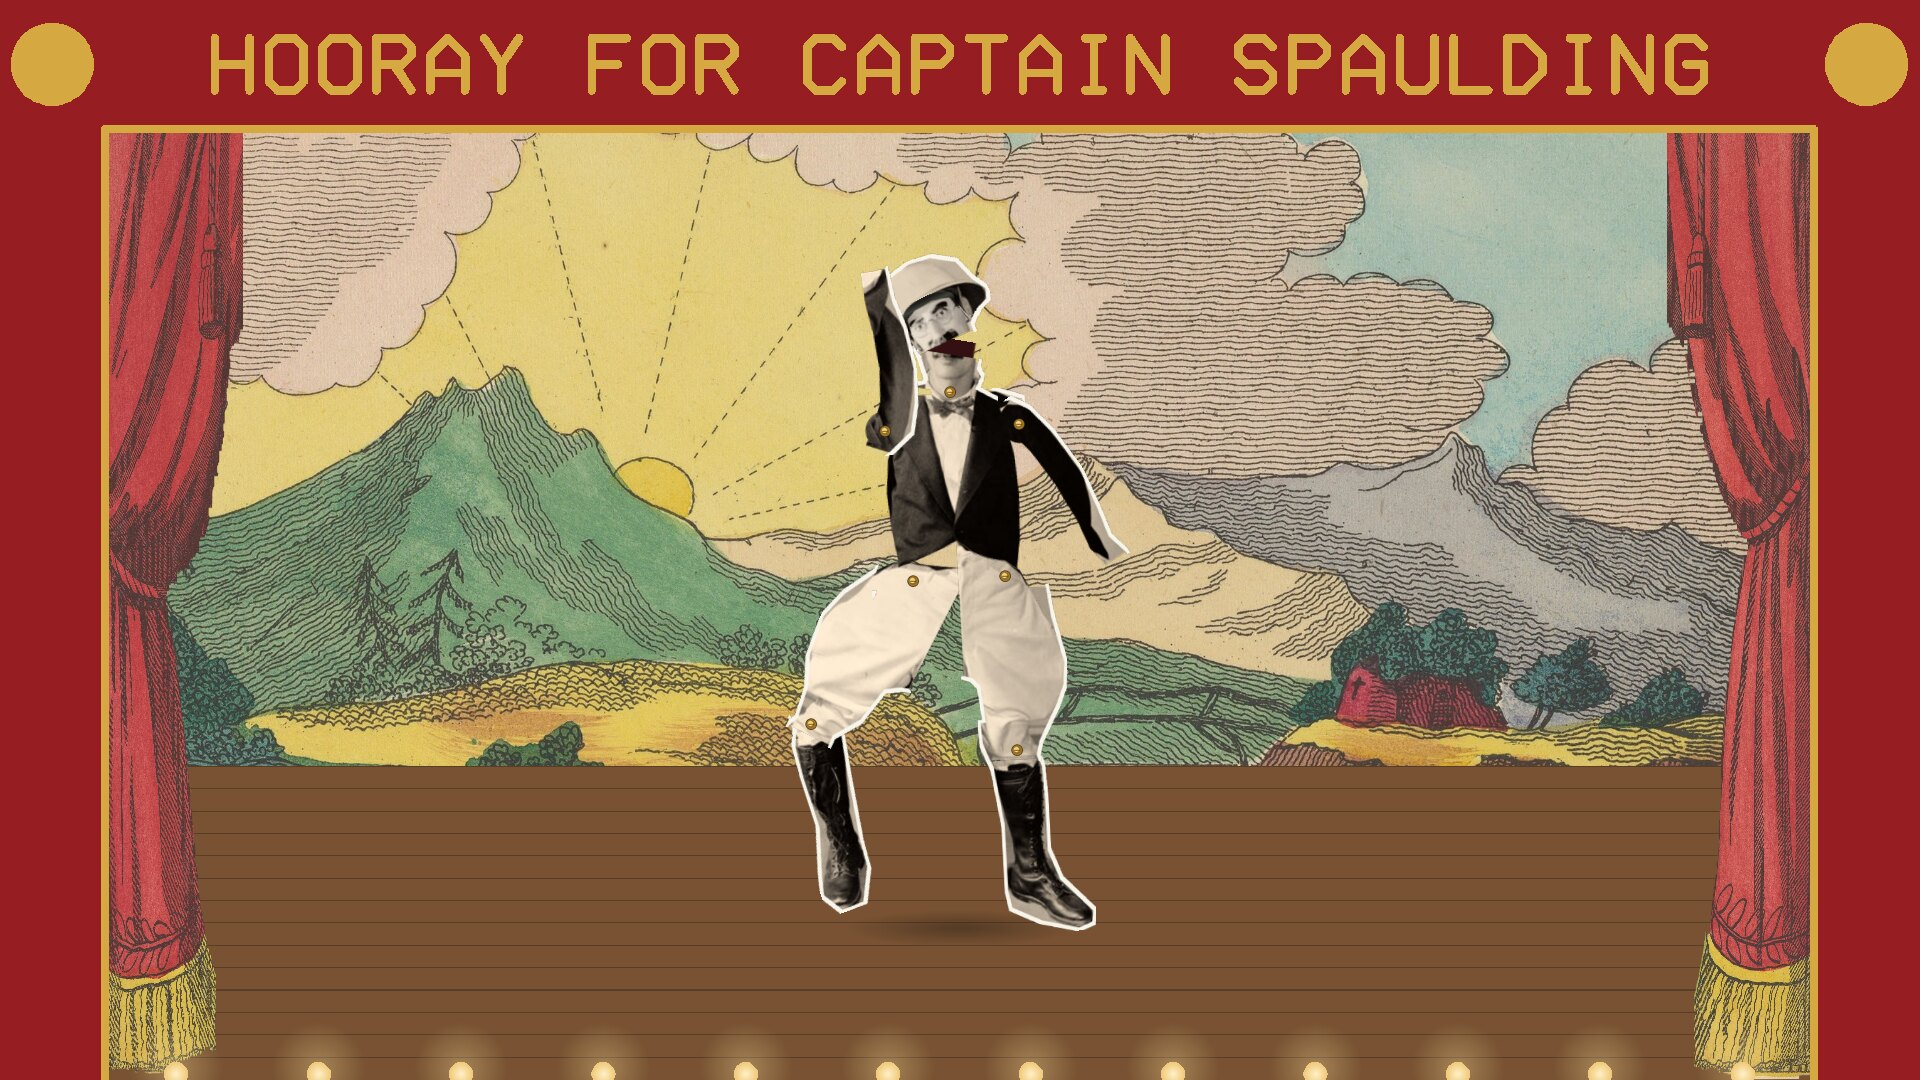
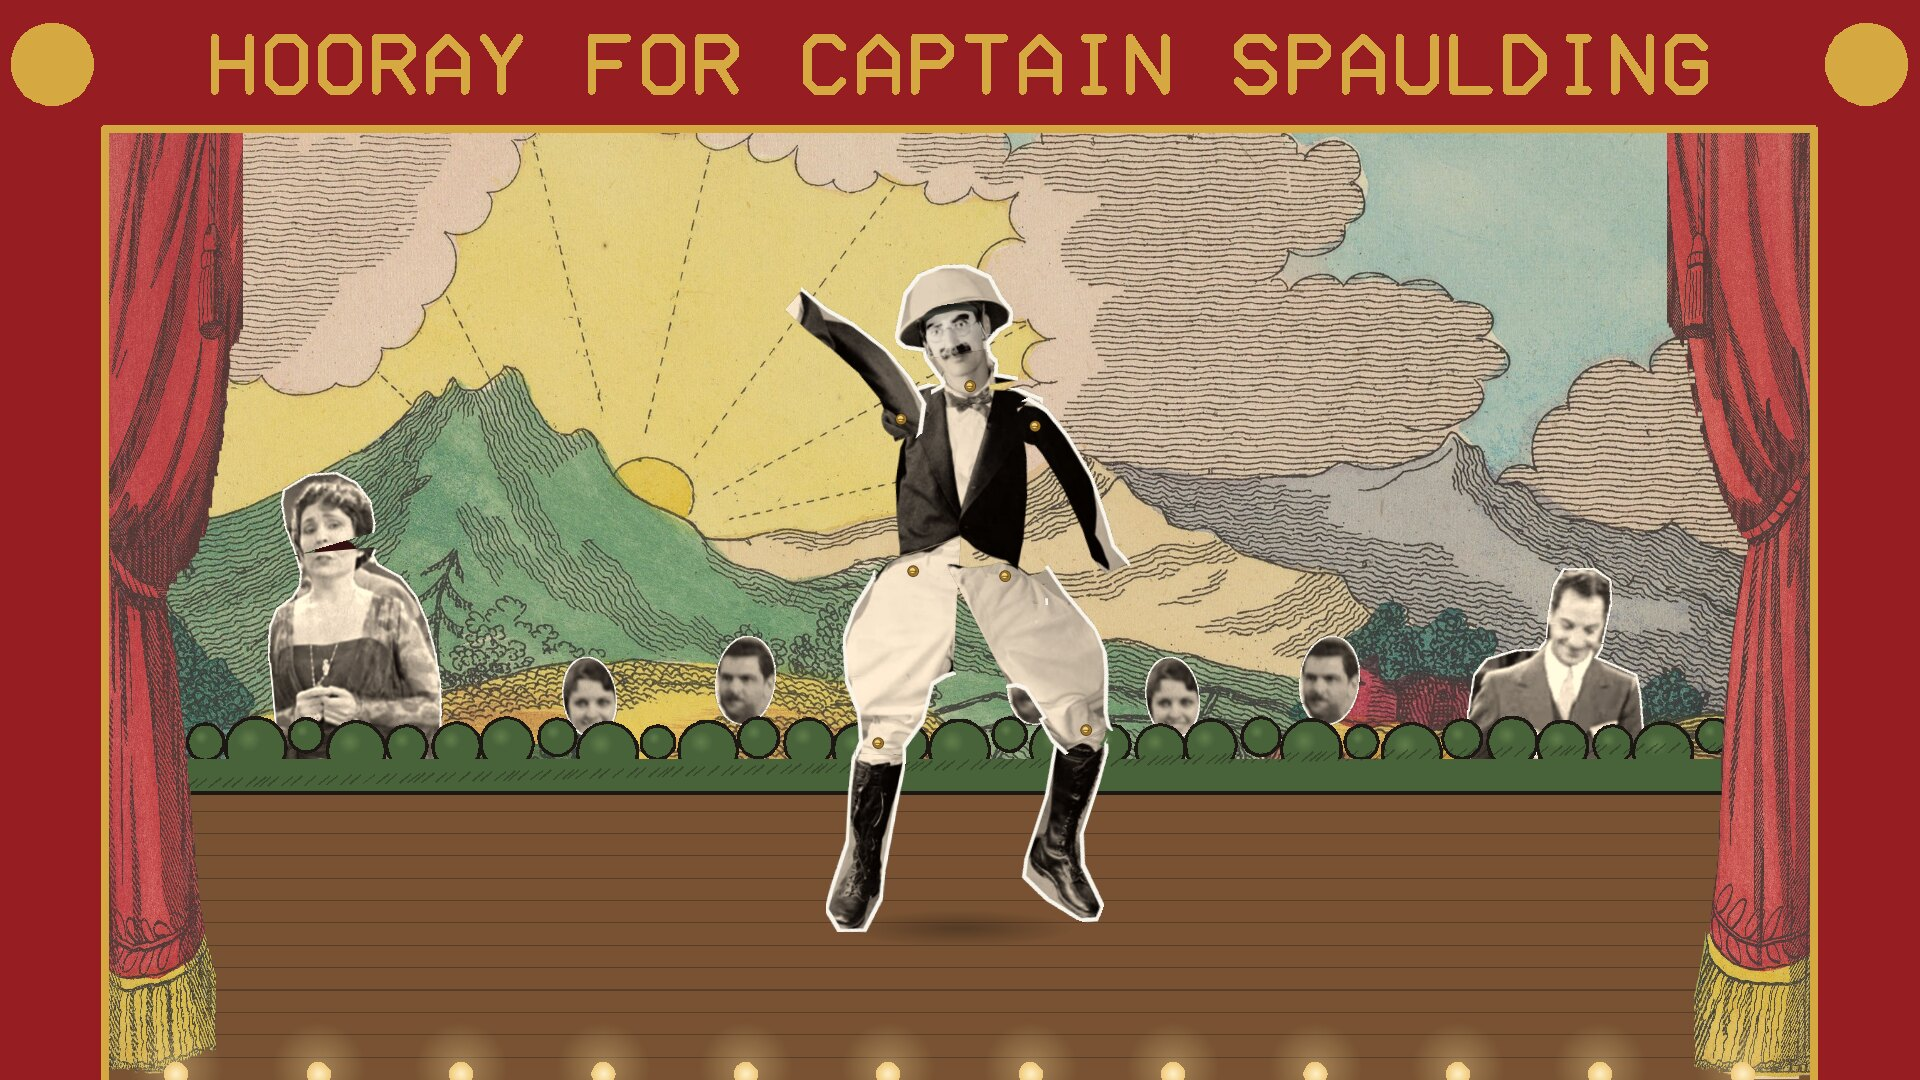
Margaret Dumont, Zeppo and a chorus line, behind a hedge
Cut from frames of the film by tools/make_cast.py, each in two at the
mouth like Groucho. They sway on the beat and flap their heads on their
own lines only, as a South Park chorus would; Groucho stays the star.

Changed region(s): [[0.0938, 0.2139, 0.9062, 0.8861]]

diff --git a/src/spaulding.c b/src/spaulding.c
@@ -61,7 +61,11 @@
 #define SPRITES \
     X(head, "sp_head.png") X(hat, "sp_hat.png") X(jaw, "sp_jaw.png") X(body, "sp_body.png") X(arm_l, "sp_arm_l.png") X(arm_r, "sp_arm_r.png") \
     X(thigh_l, "sp_thigh_l.png") X(thigh_r, "sp_thigh_r.png") X(shin_l, "sp_shin_l.png") X(shin_r, "sp_shin_r.png") \
-    X(pin, "sp_pin.png") X(backdrop, "backdrop.jpg") X(drape_l, "drape_l.png") X(drape_r, "drape_r.png")
+    X(pin, "sp_pin.png") X(backdrop, "backdrop.jpg") X(drape_l, "drape_l.png") X(drape_r, "drape_r.png") \
+    X(dumont_top, "cast_dumont_top.png") X(dumont_body, "cast_dumont_body.png") \
+    X(zeppo_top, "cast_zeppo_top.png") X(zeppo_body, "cast_zeppo_body.png") \
+    X(woman_top, "cast_woman_top.png") X(woman_body, "cast_woman_body.png") \
+    X(man_top, "cast_man_top.png") X(man_body, "cast_man_body.png")
 #define X(name, file) ART(name, file)
 SPRITES
 #undef X
@@ -73,6 +77,7 @@ static struct { const unsigned char *file, *end; int w, h; unsigned char *px; } 
 #undef X
 #include "doll.h"
 #include "song.h"
+#include "cast.h"
 static SDL_Texture **cur_tex; /* the pictures, for the renderer being drawn to */
 
 static void load_sprites(void)
@@ -515,6 +520,22 @@ static Hat hat_at(double t, Pose *p)
     return h;
 }
 
+/* how loud the voices are at t, 0..1 */
+static double voice(double t)
+{
+    int n = sizeof VOICE / sizeof *VOICE;
+    double f = t * VOICE_RATE;
+    int i = (int)f;
+    return i >= 0 && i + 1 < n ? (VOICE[i] + (VOICE[i + 1] - VOICE[i]) * (f - i)) / 255.0 : 0;
+}
+/* how far into one of a list of singing windows t is, 0..1, with a quick fade at the ends */
+static double singing(double t, const double (*win)[2], int n)
+{
+    double s = 0;
+    for (int i = 0; i < n; i++) s = fmax(s, ramp(t, win[i][0] - 0.15, win[i][0]) * (1 - ramp(t, win[i][1], win[i][1] + 0.15)));
+    return s;
+}
+
 static Pose pose_at(double t, Hat *hat)
 {
     double ph;
@@ -565,14 +586,8 @@ static Pose pose_at(double t, Hat *hat)
             {FILM(7, 57.6), FILM(8, 3.8)},     /* "I never take a drink unless somebody's buying" */
             {FILM(8, 7.4), FILM(8, 16.8)},     /* "I hate a dirty joke ... who knows how to tell it" */
         };
-        double sing = 0;
-        for (unsigned i = 0; i < sizeof SINGS / sizeof *SINGS; i++)
-            sing = fmax(sing, ramp(t, SINGS[i][0] - 0.15, SINGS[i][0]) * (1 - ramp(t, SINGS[i][1], SINGS[i][1] + 0.15)));
-        int n = sizeof VOICE / sizeof *VOICE;
-        double f = t * VOICE_RATE;
-        int i = (int)f;
-        double v = i + 1 < n ? (VOICE[i] + (VOICE[i + 1] - VOICE[i]) * (f - i)) / 255.0 : 0;
-        p.flap = -34 * v * sing;
+        double sing = singing(t, SINGS, sizeof SINGS / sizeof *SINGS);
+        p.flap = -34 * voice(t) * sing;
     }
     *hat = hat_at(t, &p);
     /* the bow at the end: a hop back, a deep nod, the hat swept wide */
@@ -754,6 +769,87 @@ static void stage_front(int w, int h, double open)
     flush(ren);
 }
 
+/* ---- the supporting cast ----
+ *
+ * Margaret Dumont, Zeppo and a chorus line of heads, cut from frames of the film, at
+ * the back of the stage behind a hedge, swaying on the beat like a South Park chorus
+ * and flapping the tops of their heads on their own lines. Times are song times. */
+enum { C_DUMONT, C_ZEPPO, C_WOMAN, C_MAN };
+static const double ZEPPO_SINGS[][2] = {{9.4, 33.3}, {123.8, 133.7}, {140.2, 143.6}};
+static const double DUMONT_SINGS[][2] = {{87.2, 94.0}};
+static const double CHORUS_SINGS[][2] = {{38.6, 74.0}, {153.6, 155.7}, {212.1, SONG_LENGTH}};
+
+/* one of them: the body's bottom middle at (x, y), `head` high from crown to mouth,
+ * leaning `sway` degrees, the top of the head flipped `flap` degrees open */
+static void cast_member(int who, double x, double y, double head, double sway, double flap)
+{
+    static const int TOP[] = {SP_dumont_top, SP_zeppo_top, SP_woman_top, SP_man_top};
+    static const int BODY[] = {SP_dumont_body, SP_zeppo_body, SP_woman_body, SP_man_body};
+    const Cast *c = &CAST[who];
+    int b = BODY[who], t = TOP[who];
+    if (!cur_tex || !cur_tex[b] || !cur_tex[t]) return;
+    flush(ren);
+    double k = head / c->head, bw = sprite[b].w * k, bh = sprite[b].h * k;
+    SDL_FRect d = {(float)(x - bw / 2), (float)(y - bh), (float)bw, (float)bh};
+    SDL_FPoint base = {(float)(bw / 2), (float)bh};
+    SDL_RenderCopyExF(ren, cur_tex[b], NULL, &d, sway, &base, SDL_FLIP_NONE);
+    double hx, hy;                                     /* the hinge, swayed with the body */
+    turn((c->body_x - sprite[b].w / 2.0) * k, (c->body_y - sprite[b].h) * k, sway, &hx, &hy);
+    hx += x; hy += y;
+    double tw = sprite[t].w * k, th = sprite[t].h * k;
+    SDL_FRect dt = {(float)(hx - c->top_x * k), (float)(hy - c->top_y * k), (float)tw, (float)th};
+    SDL_FPoint pin = {(float)(c->top_x * k), (float)(c->top_y * k)};
+    SDL_RenderCopyExF(ren, cur_tex[t], NULL, &dt, sway + flap, &pin, SDL_FLIP_NONE);
+}
+
+/* a hedge across the back of the stage, a printed cut-out ground row */
+static void hedge(int w, double top, double bottom)
+{
+    const Rgb LEAF = {72, 98, 58}, LEAF2 = {104, 132, 78};
+    int n = 34;
+    for (int pass = 0; pass < 3; pass++) {
+        for (int i = 0; i <= n; i++) {
+            double x = side_w + (w - 2 * side_w) * i / (double)n, r = (bottom - top) * (0.32 + 0.1 * sin(i * 2.7));
+            double y = top + r * 0.9 + (bottom - top) * 0.06 * sin(i * 1.3);
+            if (pass == 0) disc(x, y, r + unit * 0.25, col(INK, 1), col(INK, 1));
+            else if (pass == 1) disc(x, y, r, col(LEAF, 1), col(LEAF, 1));
+            else disc(x - r * 0.25, y - r * 0.3, r * 0.45, col(LEAF2, 0.8), col(LEAF2, 0));
+        }
+        if (pass == 1) rect(side_w, top + (bottom - top) * 0.5, w - 2 * side_w, (bottom - top) * 0.5, col(LEAF, 1));
+        flush(ren);
+    }
+    for (int i = 0; i < 160; i++) {                    /* engraved hatching */
+        double x = side_w + (w - 2 * side_w) * ((i * 0.618034) - floor(i * 0.618034));
+        double y = top + (bottom - top) * (0.35 + 0.6 * ((i * 0.381966) - floor(i * 0.381966)));
+        line(x, y, x + unit * 0.9, y - unit * 0.7, unit * 0.12, col(INK, 0.35));
+    }
+    line(side_w, bottom, w - side_w, bottom, unit * 0.3, col(INK, 1));
+    flush(ren);
+}
+
+static void cast(int w, int h, double t)
+{
+    double ph;
+    int b = beat_at(t, &ph);
+    double s = snap(ph), side = (b & 1) ? 1 : -1;
+    double lean = side * (2 * s - 1);                  /* -1..1, a snap to the other side on every beat */
+    double top = h * 0.672, bottom = h * 0.735, head = h * 0.068;
+    double v = voice(t);
+    double chorus = -30 * v * singing(t, CHORUS_SINGS, sizeof CHORUS_SINGS / sizeof *CHORUS_SINGS);
+    /* the chorus line, heads over the hedge, every other one bobbing the other way */
+    for (int i = 0; i < 6; i++) {
+        double x = w * (0.31 + 0.076 * i), alt = i & 1 ? -1 : 1;
+        int who = i & 1 ? C_MAN : C_WOMAN;
+        cast_member(who, x, top + h * 0.012 - h * 0.012 * (1 + lean * alt) / 2, head * 0.95, 7 * lean * alt, chorus * (0.8 + 0.2 * alt));
+    }
+    cast_member(C_DUMONT, w * 0.19, bottom - h * 0.02, head, 5 * lean,
+                -26 * v * singing(t, DUMONT_SINGS, 1));
+    cast_member(C_ZEPPO, w * 0.81, bottom - h * 0.02, head, -5 * lean,
+                -30 * v * singing(t, ZEPPO_SINGS, sizeof ZEPPO_SINGS / sizeof *ZEPPO_SINGS));
+    flush(ren);
+    hedge(w, top, bottom);
+}
+
 static void draw_scene(SDL_Renderer *r, int w, int h)
 {
     ren = r; sw = w; sh = h;
@@ -762,6 +858,7 @@ static void draw_scene(SDL_Renderer *r, int w, int h)
     SDL_RenderClear(r);
     double floor = h * 0.86;
     stage_back(w, h, h * 0.71);
+    cast(w, h, T);
     Hat hat;
     Pose p = pose_at(T, &hat);
     doll(p, hat, floor, h * 0.62);

diff --git a/tools/make_cast.py b/tools/make_cast.py
@@ -1,0 +1,82 @@
+#!/usr/bin/env python3
+"""Cut the supporting cast out of frames of the film (assets/src/frame-*.png, from the
+Wikimedia Commons 1080p copy of Animal Crackers): Margaret Dumont and Zeppo from the
+waist up, and two faces from the crowd for the chorus, as paper ovals. They stand
+behind a hedge at the back of the stage, so nothing below the waist is needed.
+
+Each is cut in two at the mouth, as Groucho is: the top of the head, which flaps
+open on a hinge at the side of the face when they sing, and the rest, with a dark
+mouth behind. The white paper edge runs round the outline only. Writes
+assets/art/cast_*.png and src/cast.h.
+
+    tools/make_cast.py
+"""
+import numpy as np
+from PIL import Image, ImageDraw, ImageFilter, ImageOps
+
+OUT, HDR = "assets/art", "src/cast.h"
+BORDER = 4
+# name, frame, outline (a polygon, or an oval as a box), the mouth's height, the
+# hinge's x, and the top of the head (for scale): all in the frame's pixels
+CAST = [
+    ("dumont", "436.5", [(1110, 85), (1160, 72), (1205, 82), (1235, 110), (1250, 150), (1245, 190), (1232, 215),
+                         (1240, 235), (1280, 262), (1305, 300), (1320, 345), (1330, 400), (1335, 460), (1330, 520),
+                         (1320, 600), (1040, 600), (1035, 520), (1035, 440), (1033, 380), (1040, 330), (1055, 300),
+                         (1085, 282), (1100, 262), (1105, 235), (1098, 200), (1094, 150), (1100, 105)], 205, 1100, 72),
+    ("zeppo", "317.5", [(720, 250), (770, 245), (800, 262), (805, 300), (800, 340), (795, 380), (785, 400), (800, 405),
+                        (860, 425), (870, 460), (880, 520), (890, 600), (585, 600), (575, 520), (580, 450), (600, 420),
+                        (650, 400), (690, 395), (700, 380), (700, 330), (705, 280)], 374, 705, 245),
+    ("woman", "475", (995, 252, 1125, 448), 426, 1000, 252),
+    ("man", "475", (1222, 158, 1380, 392), 346, 1228, 158),
+]
+
+def main():
+    lines = ["/* Made by tools/make_cast.py: the supporting cast, each in two pieces cut at the",
+             " * mouth. For each: where the hinge is in its top piece and in its body piece, and",
+             " * the height of its head (hair to mouth), in the pictures' pixels. */",
+             "typedef struct { double top_x, top_y, body_x, body_y, head; } Cast;",
+             "static const Cast CAST[] = {"]
+    for name, frame, shape, mouth, hinge_x, crown in CAST:
+        photo = ImageOps.autocontrast(Image.open(f"assets/src/frame-{frame}.png").convert("L"), cutoff=0.5)
+        W, H = photo.size
+        tint = Image.merge("RGB", [photo.point(lambda v: min(255, v * 1.04 + 6)), photo.point(lambda v: v * 0.98 + 2), photo.point(lambda v: v * 0.88)])
+        rgb = np.asarray(tint)
+        m = Image.new("L", (W, H), 0)
+        d = ImageDraw.Draw(m)
+        if isinstance(shape, tuple): d.ellipse(shape, fill=255)
+        else: d.polygon(shape, fill=255)
+        whole = np.asarray(m) > 0
+        ys = np.arange(H)[:, None].repeat(W, 1)
+        xs = np.arange(W)[None, :].repeat(H, 0)
+        # the mouth: a dark half-oval in the middle of the face, behind the top
+        cols = np.nonzero(whole[mouth])[0]
+        x0, x1 = cols.min(), cols.max()
+        cx, rx = (x0 + x1) / 2, (x1 - x0) * 0.28
+        mouth_in = whole & (((xs - cx) / rx) ** 2 + ((ys - mouth) / 24.0) ** 2 < 1) & (ys < mouth - 3)
+        lip = whole & (ys >= mouth - 3) & (ys < mouth)
+        parts = {"top": whole & (ys < mouth), "body": (whole & (ys >= mouth)) | mouth_in | lip}
+        boxes = {}
+        for part, pm in parts.items():
+            edge = Image.fromarray((pm * 255).astype(np.uint8)).filter(ImageFilter.MaxFilter(2 * BORDER + 1))
+            e = (np.asarray(edge) > 0) & ~(whole & ~pm)            # edged on the outline only
+            if part == "body": e &= ~(ys < mouth)                      # not round the mouth
+            if part == "top": e &= ~(ys >= mouth)
+            img = np.zeros((H, W, 4), np.uint8)
+            img[e] = (250, 246, 236, 255)
+            img[pm, :3] = rgb[pm]
+            img[pm, 3] = 255
+            if part == "body": img[mouth_in, :3] = (52, 16, 18)
+            yy, xx = np.nonzero(img[..., 3])
+            bx0, by0, bx1, by1 = xx.min(), yy.min(), xx.max() + 1, yy.max() + 1
+            Image.fromarray(img[by0:by1, bx0:bx1], "RGBA").save(f"{OUT}/cast_{name}_{part}.png", optimize=True)
+            boxes[part] = (bx0, by0)
+            print(f"cast_{name}_{part}.png {bx1 - bx0}x{by1 - by0}")
+        tx, ty = hinge_x - boxes["top"][0], mouth - boxes["top"][1]
+        bx, by = hinge_x - boxes["body"][0], mouth - boxes["body"][1]
+        lines.append(f"    /* {name:7} */ {{{tx}, {ty}, {bx}, {by}, {mouth - crown}}},")
+    lines += ["};", ""]
+    open(HDR, "w").write("\n".join(lines))
+    print(HDR)
+
+if __name__ == "__main__":
+    main()

diff --git a/src/cast.h b/src/cast.h
@@ -1,0 +1,10 @@
+/* Made by tools/make_cast.py: the supporting cast, each in two pieces cut at the
+ * mouth. For each: where the hinge is in its top piece and in its body piece, and
+ * the height of its head (hair to mouth), in the pictures' pixels. */
+typedef struct { double top_x, top_y, body_x, body_y, head; } Cast;
+static const Cast CAST[] = {
+    /* dumont  */ {10, 137, 71, 23, 133},
+    /* zeppo   */ {9, 133, 134, 23, 129},
+    /* woman   */ {9, 178, -13, 23, 174},
+    /* man     */ {10, 192, -5, 23, 188},
+};

diff --git a/README.md b/README.md
@@ -12,7 +12,9 @@ dancing to the song from the film. Runs on Linux, Windows and macOS. One of the
 The curtains open on a painted sunrise and he is let down on to the stage on a
 string. He marks time while the chorus sings "Hooray for Captain Spaulding", and
 through "Hello, I must be going" keeps setting off for the wings and coming back.
-Then he does his dance as he does it in the film, move for move: the hat thrown up,
+Behind a hedge at the back of the stage, Margaret Dumont, Zeppo and a chorus line
+of heads, cut from frames of the film, sway on the beat and flap their heads on
+their own lines, as a South Park chorus would. Then he does his dance as he does it in the film, move for move: the hat thrown up,
 the knock-kneed shuffle, high kicks, a crouch, the hat waved overhead, a kicking
 lope across the stage and back, scissor kicks, and the hat held before him at the
 end. When he sings, the top of his head flaps open on its hinge in time with the
@@ -27,6 +29,8 @@ music the whole way. Then a bow, the curtains close, and it begins again.
 | Let down on a string | "Hello, I must be going" |
 | ![](docs/screenshots/04-the-swivel.jpg) | ![](docs/screenshots/05-the-lope.jpg) |
 | The swivel | The lope |
+| ![](docs/screenshots/07-the-chorus.jpg) | ![](docs/screenshots/06-the-bow.jpg) |
+| The chorus behind the hedge | The bow |
 
 ## Where it all comes from
 
@@ -41,6 +45,8 @@ Everything in it is in the public domain in the United States.
   dance, with the talk between left out (`tools/make_song.py`). The film and the song
   entered the US public domain on 1 January 2026; elsewhere the song may still be in
   copyright.
+- **The supporting cast** (Margaret Dumont, Zeppo and two faces from the crowd) are
+  cut from frames of the film, from the waist or the neck up (`tools/make_cast.py`).
 - **The stage** is from Pollock's toy-theatre scenes for *Jack the Giant Killer*
   (London, about 1850): the backdrop is Scene 4 and the curtains are cut from Scene
   11, from the Metropolitan Museum of Art's prints, released as CC0
@@ -107,6 +113,7 @@ To remake the pictures and music from their sources (the photograph in
 
     tools/make_doll.py
     tools/make_stage.py DIR_WITH_SCENES
+    tools/make_cast.py
     tools/make_song.py "Animal Crackers (1930).webm.1080p.vp9.webm"
 
 Packages are written to `dist/`, using the container in `tools/Containerfile`:
